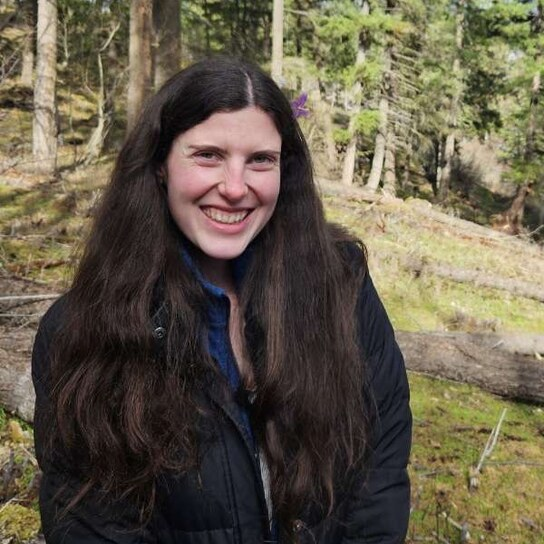
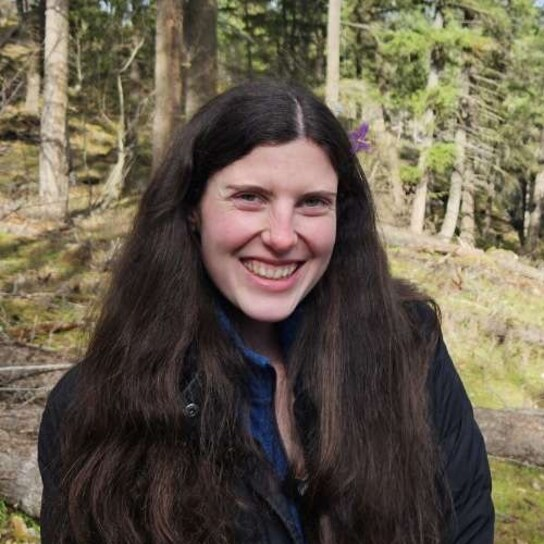
Tighten Caitlin portrait crop

diff --git a/pages/teachers.html b/pages/teachers.html
@@ -261,7 +261,7 @@
 <div class="tp-line"><p>Mary Hegelund holds a B.S. and M.S. in Education and is currently pursuing a degree in Theology. She leads River Tech Elementary and is passionate about educating the whole student&mdash;nurturing academic growth, creativity, character, relationships, and the God-given potential of every learner.</p><p>Prior to founding River Tech, Mary worked in education in Sweden and later homeschooled her three children.</p><p>School-wide, Mary helps shape educational programs, staff development, family engagement, and school culture, with a focus on cultivating a relational and supportive learning community. She also coordinates River Tech&rsquo;s field trips and school events.</p></div>
 <p class="tp-teaches">Elementary Language Arts, Math, Science, Social Studies, P.E., Social-Emotional Learning, Arts &amp; Crafts, Field Trips &amp; Events</p>
 <span class="tp-open">See their week ↓</span></button></li><li class="tp-card" data-grades="home hs jh ms o-elem" data-search="caitlin relvas teacher english, literature, social studies, and dance. creative writing critical thinking &amp; debate dance english literature soc. studies" data-first="Caitlin"><button class="tp-face" data-who="CA"><div class="tp-portrait">
-<img src="../assets/images/teachers/caitlin-relvas.jpg?v=20260819" alt="Caitlin Relvas" loading="lazy">
+<img src="../assets/images/teachers/caitlin-relvas.jpg?v=20260819b" alt="Caitlin Relvas" loading="lazy">
 </div><h3 class="tp-name">Caitlin Relvas</h3><p class="tp-role">Teacher</p><p class="tp-line">English, literature, social studies, and dance.</p><p class="tp-teaches">Creative Writing, Critical Thinking &amp; Debate, Dance, English, Literature, Soc. Studies</p><span class="tp-open">See their week ↓</span></button></li><li class="tp-card" data-grades="home hs jh ms o-elem y-elem" data-search="jordan ezell technology director coding, a.i., robotics, and science. a.i. &amp; machine learning chemistry coding coding / ai math personal finance &amp; family life physics robotics science year book" data-first="Jordan"><button class="tp-face" data-who="JO"><div class="tp-portrait"><img src="../assets/images/teachers/2026-27/jordan.jpg" alt="Jordan Ezell" loading="lazy"></div><h3 class="tp-name">Jordan Ezell</h3><p class="tp-role">Technology Director</p><p class="tp-line">Coding, A.I., robotics, and science.</p><p class="tp-teaches">A.I. &amp; Machine Learning, Chemistry, Coding, Coding / AI, Math, Personal Finance &amp; Family Life…</p><span class="tp-open">See their week ↓</span></button></li><li class="tp-card" data-grades="home hs jh ms o-elem y-elem" data-search="luke hegelund music & media instruments, filmmaking, robotics, and coding. bible coding drill english film making filmmaking math money p.e. at the park or library robotics study hall ukulele" data-first="Luke"><button class="tp-face" data-who="LU"><div class="tp-portrait"><img src="../assets/images/teachers/2026-27/luke.jpg" alt="Luke Hegelund" loading="lazy"></div><h3 class="tp-name">Luke Hegelund</h3><p class="tp-role">Music & Media</p><p class="tp-line">Instruments, filmmaking, robotics, and coding.</p><p class="tp-teaches">Bible, Coding, Drill, English, Film Making, Filmmaking…</p><span class="tp-open">See their week ↓</span></button></li><li class="tp-card" data-grades="home hs jh ms o-elem y-elem" data-search="tiffany young elementary teacher full-time elementary teacher. bible/worship/prayer english fine art fine arts free play games math math/english nutrition &amp; health p.e. at the park or library performing arts production science sketchbook pro soc. studies" data-first="Tiffany"><button class="tp-face" data-who="TI"><div class="tp-portrait"><img src="../assets/images/teachers/2026-27/tiffany.jpg" alt="Tiffany Young" loading="lazy"></div><h3 class="tp-name">Tiffany Young</h3><p class="tp-role">Elementary Teacher</p><p class="tp-line">Full-time Elementary teacher.</p><p class="tp-teaches">Bible/Worship/Prayer, English, Fine Art, Fine Arts, Free Play, Games…</p><span class="tp-open">See their week ↓</span></button></li><li class="tp-card" data-grades="home hs jh ms o-elem y-elem" data-search="charlotte tebow teacher assistant performing arts and musical direction. &#8220;aladdin&#8221; &amp; christmas concert coding digital arts drawing math performing arts production &#8220;peter &amp; alice &mdash; the way home&#8221;" data-first="Charlotte"><button class="tp-face" data-who="CH"><div class="tp-portrait tp-pending"><span>portrait coming</span></div><h3 class="tp-name">Charlotte Tebow</h3><p class="tp-role">Teacher Assistant</p><p class="tp-line">Performing arts and musical direction.</p><p class="tp-teaches">&#8220;Aladdin&#8221; &amp; Christmas Concert, Coding, Digital Arts, Drawing, Math, Performing Arts Production…</p><span class="tp-open">See their week ↓</span></button></li><li class="tp-card" data-grades="home hs jh" data-search="kirsten decker teacher fridays &mdash; english, math, geography, and bible. bible big picture geography english film making" data-first="Kirsten"><button class="tp-face" data-who="KI"><div class="tp-portrait"><img src="../assets/images/teachers/2026-27/kirsten.jpg" alt="Kirsten Decker" loading="lazy"></div><h3 class="tp-name">Kirsten Decker</h3><p class="tp-role">Teacher</p><p class="tp-line">Fridays &mdash; English, math, geography, and Bible.</p><p class="tp-teaches">Bible, Big Picture Geography, English, Film Making</p><span class="tp-open">See their week ↓</span></button></li><li class="tp-card" data-grades="home o-elem y-elem" data-search="emily allison classroom assistant math, robotics, and arts. coding crafts drawing english fine arts math nutrition &amp; health robotics" data-first="Emily"><button class="tp-face" data-who="EM"><div class="tp-portrait"><img src="../assets/images/teachers/2026-27/emily.jpg" alt="Emily Allison" loading="lazy"></div><h3 class="tp-name">Emily Allison</h3><p class="tp-role">Classroom Assistant</p><p class="tp-line">Math, robotics, and arts.</p><p class="tp-teaches">Coding, Crafts, Drawing, English, Fine Arts, Math…</p><span class="tp-open">See their week ↓</span></button></li><li class="tp-card" data-grades="hs jh" data-search="phil munts teacher python and robotics. python robotics" data-first="Phil"><button class="tp-face" data-who="PH"><div class="tp-portrait"><img src="../assets/images/teachers/phil-munts.jpg" alt="Phil Munts" loading="lazy"></div><h3 class="tp-name">Phil Munts</h3><p class="tp-role">Teacher</p><p class="tp-line">Python and robotics.</p><p class="tp-teaches">Python, Robotics</p><span class="tp-open">See their week ↓</span></button></li><li class="tp-card" data-grades="hs jh ms o-elem y-elem" data-search="cristina maness spanish spanish. spanish" data-first="Cristina"><button class="tp-face" data-who="CR"><div class="tp-portrait"><img src="../assets/images/teachers/cris-maness.jpg" alt="Cristina Maness" loading="lazy"></div><h3 class="tp-name">Cristina Maness</h3><p class="tp-role">Spanish</p><p class="tp-line">Spanish.</p><p class="tp-teaches">Spanish</p><span class="tp-open">See their week ↓</span></button></li><li class="tp-card" data-grades="hs" data-search="ryan killackey filmmaking high-school filmmaking. filmmaking" data-first="Ryan"><button class="tp-face" data-who="RY"><div class="tp-portrait tp-pending"><span>portrait coming</span></div><h3 class="tp-name">Ryan Killackey</h3><p class="tp-role">Filmmaking</p><p class="tp-line">High-school filmmaking.</p><p class="tp-teaches">Filmmaking</p><span class="tp-open">See their week ↓</span></button></li><li class="tp-card" data-grades="hs" data-search="penny burciaga operations &amp; leadership teaches leadership mindset and organizational design &amp; management. leadership mindset organizational design &amp; management" data-first="Penny"><button class="tp-face" data-who="PE"><div class="tp-portrait tp-pending"><span>portrait coming</span></div><h3 class="tp-name">Penny Burciaga</h3><p class="tp-role">Operations &amp; Leadership</p><p class="tp-line">Teaches Leadership Mindset and Organizational Design &amp; Management.</p><p class="tp-teaches">Leadership Mindset, Organizational Design &amp; Management</p><span class="tp-open">See their week ↓</span></button></li><li class="tp-card" data-grades="home" data-search="angie costumes costumes for both productions. costumes for &ldquo;aladdin&rdquo; &amp; christmas concert costumes for &ldquo;peter &amp; alice&rdquo;, talent show &amp; summer concert" data-first="Angie"><button class="tp-face" data-who="AN"><div class="tp-portrait tp-pending"><span>portrait coming</span></div><h3 class="tp-name">Angie</h3><p class="tp-role">Costumes</p><p class="tp-line">Costumes for both productions.</p><p class="tp-teaches">Costumes for &ldquo;Aladdin&rdquo; &amp; Christmas Concert, Costumes for &ldquo;Peter &amp; Alice&rdquo;, Talent Show &amp; Summer Concert</p><span class="tp-open">See their week ↓</span></button></li><li class="tp-card" data-grades="home" data-search="kara mcarthur props props for both productions. props for &ldquo;aladdin&rdquo; &amp; christmas concert props for &ldquo;peter &amp; alice&rdquo;, talent show &amp; summer concert" data-first="Kara"><button class="tp-face" data-who="KA"><div class="tp-portrait tp-pending"><span>portrait coming</span></div><h3 class="tp-name">Kara McArthur</h3><p class="tp-role">Props</p><p class="tp-line">Props for both productions.</p><p class="tp-teaches">Props for &ldquo;Aladdin&rdquo; &amp; Christmas Concert, Props for &ldquo;Peter &amp; Alice&rdquo;, Talent Show &amp; Summer Concert</p><span class="tp-open">See their week ↓</span></button></li><li class="tp-card" data-grades="" data-search="brooke donnelly executive assistant the first person you will hear back from when you write to the school." data-first="Brooke"><button class="tp-face" data-who="BR"><div class="tp-portrait tp-pending"><span>portrait coming</span></div><h3 class="tp-name">Brooke Donnelly</h3><p class="tp-role">Executive Assistant</p><p class="tp-line">The first person you will hear back from when you write to the school.</p></button></li></ul>
     <p class="tp-empty" id="tp-empty" hidden>No one matches that just yet. Clear the filters and try another word.</p>
 
